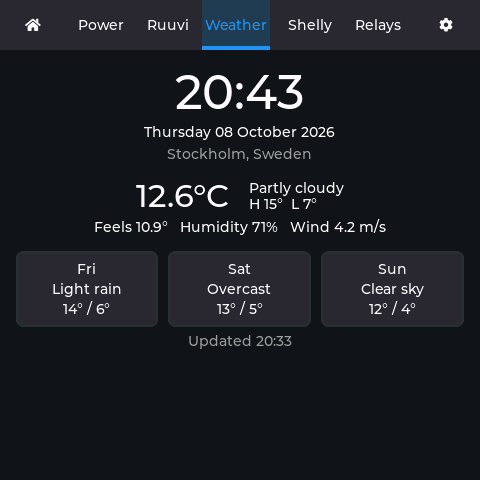
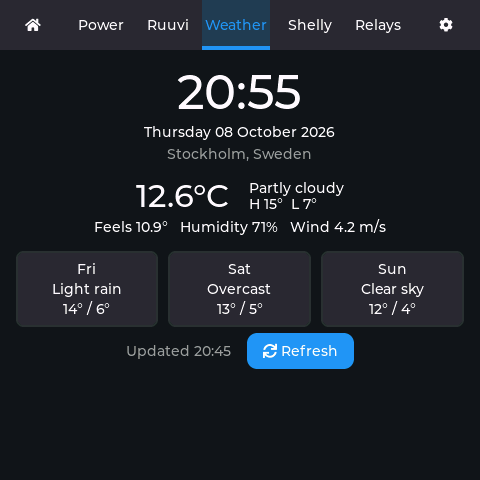
Add files via upload

Changed region(s): [[0.25, 0.6875, 0.75, 0.7812], [0.375, 0.1562, 0.6562, 0.25]]

diff --git a/power.cpp b/power.cpp
@@ -16,9 +16,11 @@
 #include "WS_CH32_IO.h"
 
 static bool saving_now = false;
+volatile bool screen_asleep = false;
 
 /* Called by the screen saver when it starts and stops */
-void power_set_saving(bool screen_asleep) {
+void power_set_saving(bool asleep) {
+  screen_asleep = asleep;  // the weather is not fetched while nobody looks
   if (!feat_powersave) {
     if (saving_now) {  // the setting was switched off while asleep
       setCpuFrequencyMhz(240);
@@ -26,11 +28,11 @@ void power_set_saving(bool screen_asleep) {
     }
     return;
   }
-  if (screen_asleep == saving_now) return;
-  saving_now = screen_asleep;
+  if (asleep == saving_now) return;
+  saving_now = asleep;
   /* 80 MHz is the lowest that keeps WiFi and Bluetooth working */
-  setCpuFrequencyMhz(screen_asleep ? 80 : 240);
-  logf("Power: CPU at %d MHz", screen_asleep ? 80 : 240);
+  setCpuFrequencyMhz(asleep ? 80 : 240);
+  logf("Power: CPU at %d MHz", asleep ? 80 : 240);
 }
 
 bool power_saving_active() {

diff --git a/app.h b/app.h
@@ -112,6 +112,7 @@ LV_FONT_DECLARE(font_clock_96)
 #define MAX_RUUVI 3           // RuuviTags that can be added and named
 #define MAX_VIC 6             // Victron devices that can be added
 #define MAX_VIC_SEEN 12       // Victron devices remembered for the "Add" list
+#define WEATHER_EVERY_MS (60UL * 60 * 1000)  // weather refresh while the screen is awake
 #define VIC_STALE_MS 60000UL  // no Victron data for this long = "No signal"
 #define MAX_RELAYS 8          // PCF8574 has 8 outputs
 #define MAX_ALARMS 8          // messages kept at once
@@ -488,6 +489,7 @@ bool sw6106_present();
 
 /* power.cpp */
 void power_set_saving(bool screen_asleep);
+extern volatile bool screen_asleep;  // the screen saver is on (set whether or not the CPU is slowed)
 bool power_saving_active();
 void perf_service();            // call from loop()
 void power_battery_service();   // call from loop(): watches the onboard cell

diff --git a/net.cpp b/net.cpp
@@ -453,10 +453,12 @@ static void net_task(void *arg) {
     LOCK();
     bool has_loc = g.has_loc;
     UNLOCK();
-    if (up && has_loc && (cmd_weather || (int32_t)(millis() - next_weather) >= 0)) {
+    /* every hour while the screen is awake (at once on waking if one is due), on
+       request from the Refresh button, and a minute after a failed attempt */
+    if (up && has_loc && (cmd_weather || (!screen_asleep && (int32_t)(millis() - next_weather) >= 0))) {
       cmd_weather = false;
       bool ok = do_weather();
-      next_weather = millis() + (ok ? 15UL * 60 * 1000 : 60UL * 1000);  // 15 min, retry after 1 min
+      next_weather = millis() + (ok ? WEATHER_EVERY_MS : 60UL * 1000);
       if (!ok) USBSerial.println("Weather fetch failed");
     }
 

diff --git a/lang_tables.h b/lang_tables.h
@@ -381,6 +381,8 @@ static const TrPair tr_sv[] = {
   { "%s\n%s  -  OK (%d dBm)", "%s\n%s  -  OK (%d dBm)" },
   { "Loading weather...", "Hämtar väder..." },
   { "Set a location\nin Settings", "Välj en plats\ni Inställningar" },
+  { "Refresh", "Uppdatera" },
+  { "Updating weather...", "Hämtar väder..." },
   { "Feels %.1f°   Humidity %d%%   Wind %.1f m/s", "Känns som %.1f°   Fukt %d%%   Vind %.1f m/s" },
   { "Updated %H:%M", "Uppdaterad %H:%M" },
   { "Waiting for time sync", "Väntar på tidssynkronisering" },
@@ -426,6 +428,6 @@ static const TrPair tr_sv[] = {
 };
 
 static const BuiltIn builtin[] = {
-  { "sv", "Svenska", tr_sv, 420 },
+  { "sv", "Svenska", tr_sv, 422 },
 };
 static const int BUILTIN_COUNT = 1;

diff --git a/ui_weather.cpp b/ui_weather.cpp
@@ -56,7 +56,16 @@ void build_weather_tab() {
     lv_label_set_text(fc_temp[i], "");
   }
 
-  lbl_updated = make_grey_label(tab_weather);
+  /* when it was fetched, and a button to fetch it now */
+  row = make_row(tab_weather, LV_FLEX_ALIGN_CENTER);
+  lv_obj_set_style_pad_column(row, 16, 0);
+  lbl_updated = make_grey_label(row);
+  lv_obj_t *btn = make_btn(row, LV_SYMBOL_REFRESH " Refresh", [](lv_event_t *e) {
+    if (!g.has_loc) return;
+    cmd_weather = true;  // the network task fetches it within a moment
+    lv_label_set_text(lbl_updated, "Updating weather...");
+  });
+  lv_obj_set_height(btn, 36);
 }
 
 static void show_weather(const Weather &w) {

diff --git a/README.md b/README.md
@@ -17,7 +17,7 @@ Caravan display for the **Waveshare ESP32-S3-Touch-LCD-4 (V4)**, the 480×480 to
 | ![Alarm](screen-alarm.png) | ![History](screen-history.png) |
 | **Warnings and alarms** – a banner on Home, orange for warnings and red for alarms | **History** – solar and consumption per hour or per day, reached by tapping a Power tile |
 | ![Ruuvi](screen-ruuvi.png) | ![Weather](screen-weather.png) |
-| **Ruuvi** – each tag with its reading and the last 7 days: daily low in blue, high in orange | **Weather** – now, today's high and low, and three days ahead |
+| **Ruuvi** – each tag with its reading and the last 7 days: daily low in blue, high in orange | **Weather** – now, today's high and low, and three days ahead; updated hourly, or now with Refresh |
 | ![Relays](screen-relays.png) | ![Shelly](screen-shelly.png) |
 | **Relays** – one Off/On control per relay, in the Victron switch-pane style | **Shelly** – plugs and switches over WiFi or Bluetooth, with power and the reason when something fails |
 | ![Settings: Connect](screen-settings.png) | ![Settings: Sensors](screen-settings-sensors.png) |
@@ -37,7 +37,7 @@ Caravan display for the **Waveshare ESP32-S3-Touch-LCD-4 (V4)**, the 480×480 to
 | **⌂ Start** | Large clock and date between two gradient gauges: battery on the left with Time To Go, solar on the right. Ten-minute graphs under each, then inside and outside temperature and how many relays are on. A warning banner appears across the top when something needs attention |
 | **Power** | The battery in the middle, chargers on the left, the AC side on the right, DC loads below. Each connection lights up in its device's colour while energy flows, and the solar, battery and loads tiles carry a ten-minute graph. Tap any tile for the history: solar and consumption per hour over 24 hours, or per day over 7 days |
 | **Ruuvi** | Up to 3 named RuuviTags: temperature, humidity, pressure, tag battery and signal, and a chart of the last 7 days per tag: each day's low (blue) and high (orange), in the colours of Victron VRM. The 7-day high and low sit under the reading. The history is kept in flash, so it survives a restart |
-| **Weather** | Current conditions, high and low, feels-like, humidity, wind and a 3-day forecast (Open-Meteo) |
+| **Weather** | Current conditions, high and low, feels-like, humidity, wind and a 3-day forecast (Open-Meteo). Fetched every hour while the screen is awake, never while the screen saver is on (it catches up as soon as the screen wakes), and at once with the **Refresh** button. A failed fetch is tried again after a minute |
 | **Shelly** | Up to 4 plugs or switches, each over **WiFi** (local HTTP RPC) or **Bluetooth** (BLE RPC): power, on/off, and the reason when something fails. Hidden until a device is added |
 | **Relays** | Up to 8 relays on a PCF8574, each an Off \| On control in the Victron switch-pane style. Hidden until a board answers |
 | **⚙ Settings** | Four sub-tabs: Connect, Sensors, Control, Device |

diff --git a/CHANGELOG.md b/CHANGELOG.md
@@ -22,6 +22,9 @@ Everything below "Development builds" is in this release. New since the last bui
 - Fix: the History chart labelled its 24 hourly bars -23h ... -17h; it now runs -23h ... now.
 - History: the totals fit their boxes ("3.37 kWh" was cut off) and the scale on the left shows.
 - Shelly: the power reading no longer overlaps the status line under it.
+- Weather: fetched every hour while the screen is awake (was every 15 minutes, always),
+  not at all while the screen saver is on, and straight away when the screen wakes if an
+  update is due. A **Refresh** button under the forecast fetches it at once.
 
 What 1.0 contains, in short: Home, Power (Victron), Ruuvi with 7-day history, Weather,
 Battery (BMS, experimental), Shelly, Relays and Settings tabs; schedules; alarms; web page
